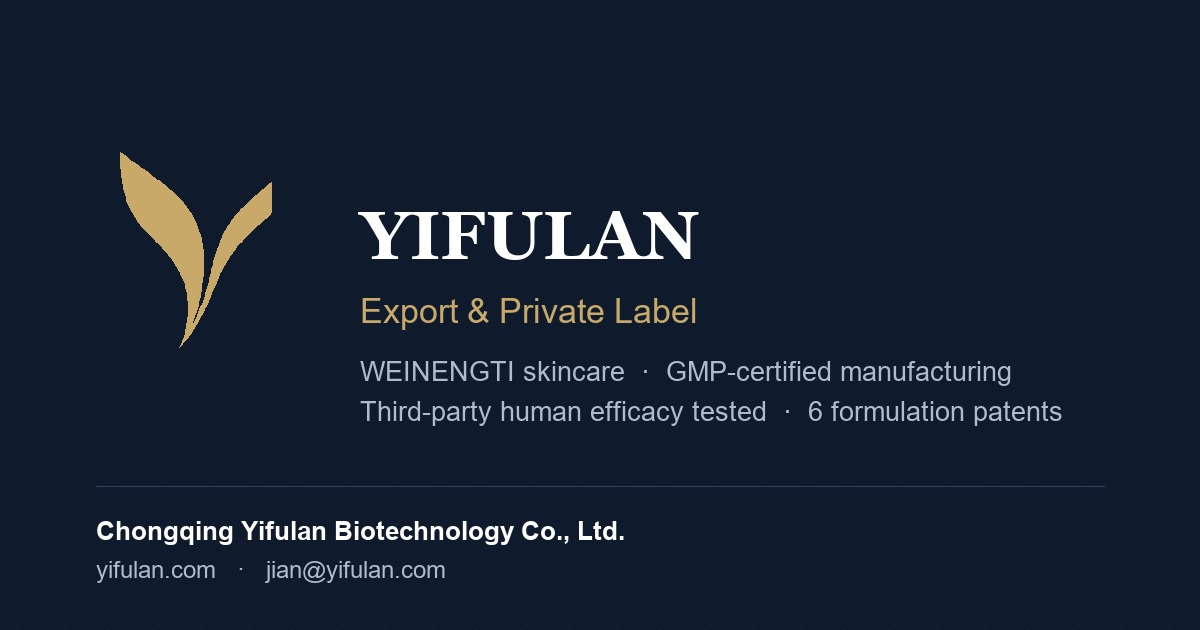
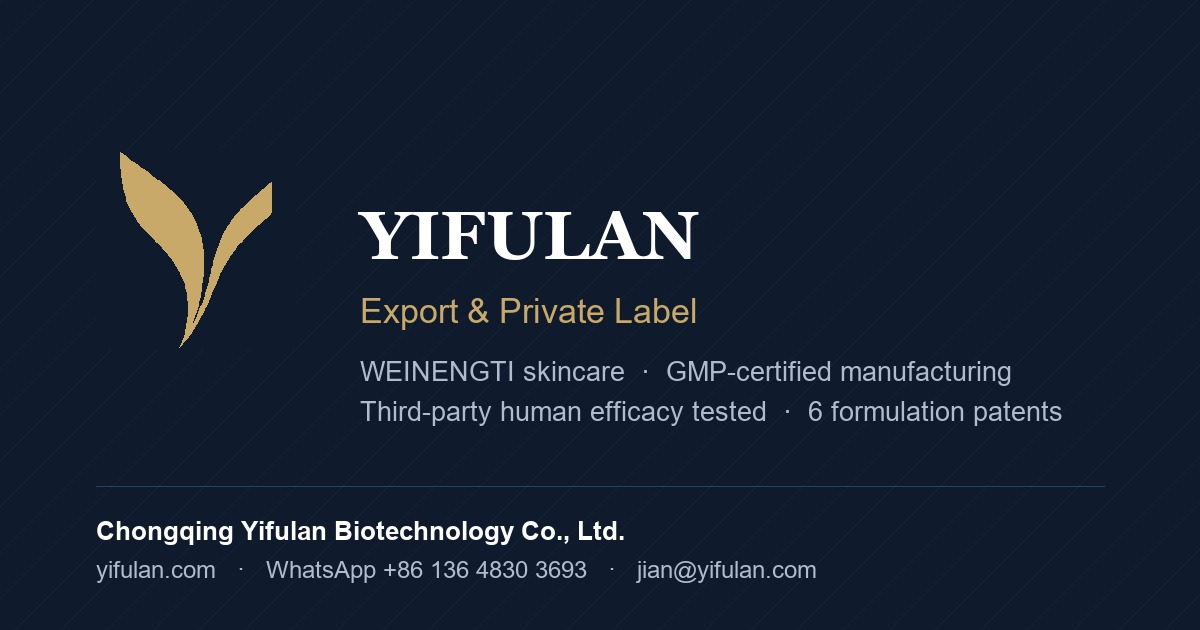
2026-10-09 contact restore: WhatsApp +86 136 4830 3693 is back on all 21 pages. The business number was recovered; the owner only ever used plain WhatsApp on 136, never WhatsApp Business. WhatsApp is the primary CTA again and the email stays as the secondary button. og-image bottom line restored to 

Changed region(s): [[0.2158, 0.8746, 0.4933, 0.9349], [0.5242, 0.8746, 0.6783, 0.9349]]

diff --git a/private-label-skincare-manufacturer.html b/private-label-skincare-manufacturer.html
@@ -9,7 +9,7 @@
 <meta name="theme-color" content="#0F1B2D">
 <meta property="og:type" content="website">
 <meta property="og:url" content="https://yifulan.com/private-label-skincare-manufacturer.html">
-<meta property="og:title" content="Private Label Skincare Manufacturing — From 50 Units">
+<meta property="og:title" content="Private Label Skincare Manufacturer in China — From 50 Units | Yifulan">
 <meta property="og:description" content="Private label and OEM skincare from 50 units. 35-45 day lead time, full export documents, and third-party human efficacy reports on finished formulas.">
 <meta property="og:image" content="https://yifulan.com/og-image.jpg">
 <meta name="twitter:card" content="summary_large_image">
@@ -108,7 +108,7 @@ footer a:hover{color:var(--gold)}
       <a class="hide" href="about.html">About us</a>
       <a class="hide" href="what-is-weinengti.html">Technology</a>
       <a class="hide" href="products.html">All products</a>
-      <a href="mailto:jian@yifulan.com" class="btn btn-gold">Email us</a>
+      <a href="https://wa.me/8613648303693" class="btn btn-gold">WhatsApp us</a>
     </div>
   </div>
 </header>
@@ -123,7 +123,8 @@ footer a:hover{color:var(--gold)}
          Full export documents as standard, and a third-party human efficacy report on the
          finished formula rather than the raw material.</p>
       <div style="display:flex;gap:14px;flex-wrap:wrap;margin-top:30px">
-        <a class="btn btn-gold" href="mailto:jian@yifulan.com?subject=Enquiry - private label manufacturing">Email us</a>
+        <a class="btn btn-gold" href="https://wa.me/8613648303693?text=Enquiry: private label manufacturing">Ask for a quotation</a>
+        <a class="btn btn-line" href="mailto:jian@yifulan.com?subject=Enquiry - private label manufacturing">Email us</a>
       </div>
     </div>
   </section>
@@ -233,9 +234,10 @@ footer a:hover{color:var(--gold)}
       <h2>Tell us three things and we will send a quotation.</h2>
       <p class="lead">Which product, the quantity, and your destination port or city. That is everything we need to price your order properly.</p>
       <div style="display:flex;gap:14px;flex-wrap:wrap;margin-top:30px">
-        <a class="btn btn-gold" href="mailto:jian@yifulan.com?subject=Enquiry - private label manufacturing">Email us</a>
+        <a class="btn btn-gold" href="https://wa.me/8613648303693?text=Enquiry: private label manufacturing">Message us on WhatsApp</a>
+        <a class="btn btn-line" href="mailto:jian@yifulan.com?subject=Enquiry - private label manufacturing">Email us</a>
       </div>
-      <p class="note">jian@yifulan.com</p>
+      <p class="note">WhatsApp +86 136 4830 3693 &#183; jian@yifulan.com</p>
     </div>
   </section>
   <section>

diff --git a/index.html b/index.html
@@ -148,7 +148,7 @@ footer a:hover{color:var(--gold)}
       <li><a href="#process">How we work</a></li>
       <li><a href="#contact">Contact</a></li>
     </ul>
-    <a class="btn btn-gold" href="mailto:jian@yifulan.com">Email us</a>
+    <a class="btn btn-gold" href="https://wa.me/8613648303693">WhatsApp us</a>
   </div>
 </header>
 
@@ -164,8 +164,9 @@ footer a:hover{color:var(--gold)}
          What reaches your market is backed by third-party human efficacy evaluation reports
          &#8212; not adjectives.</p>
       <div class="cta">
-        <!-- ★ 2026-10-08：原电话联系按钮已撤下，改为邮箱主 CTA -->
-        <a class="btn btn-gold" href="mailto:jian@yifulan.com?subject=Export%20enquiry%20-%20WEINENGTI">Email us</a>
+        <a class="btn btn-gold" href="https://wa.me/8613648303693">Message us on WhatsApp</a>
+        <!-- 域名邮箱已于 2026-10-03 启用（MX/SPF/DKIM 三项 Zoho 验证通过） -->
+        <a class="btn btn-line" href="mailto:jian@yifulan.com?subject=Export%20enquiry%20-%20WEINENGTI">Email us</a>
       </div>
       <div class="facts">
         <div><b>OEM &amp; ODM</b><br>Private label welcome</div>
@@ -455,7 +456,9 @@ footer a:hover{color:var(--gold)}
       <div class="contact">
         <div>
           <ul class="rows">
-            <!-- ★ 2026-10-08：原电话联系方式行已撤下（业务号被封） -->
+            <li><span style="color:var(--gold)">WhatsApp</span>
+                <a href="https://wa.me/8613648303693"><b>+86 136 4830 3693</b></a></li>
+            <!-- 已于 2026-10-03 换为域名邮箱 -->
             <li><span style="color:var(--gold)">Email</span>
                 <a href="mailto:jian@yifulan.com"><b>jian@yifulan.com</b></a></li>
             <li><span style="color:var(--gold)">Website</span>
@@ -472,10 +475,12 @@ footer a:hover{color:var(--gold)}
         </div>
         <div class="card" style="align-self:start">
           <h3>Fastest route</h3>
-          <p style="margin-bottom:22px">Email reaches us directly &#8212; we usually
-             reply within one business day. Tell us the product, the quantity
-             and your destination, and we will send a quote.</p>
+          <p style="margin-bottom:22px">WhatsApp reaches us directly on the
+             phone &#8212; usually answered within a few hours during
+             business hours.</p>
           <a class="btn btn-gold" style="width:100%;text-align:center"
+             href="https://wa.me/8613648303693">Open WhatsApp</a>
+          <a class="btn btn-line" style="width:100%;text-align:center;margin-top:12px"
              href="mailto:jian@yifulan.com?subject=Export%20enquiry%20-%20WEINENGTI">Send an email</a>
         </div>
       </div>

diff --git a/private-label-skincare-uae-saudi.html b/private-label-skincare-uae-saudi.html
@@ -9,7 +9,7 @@
 <meta name="theme-color" content="#0F1B2D">
 <meta property="og:type" content="website">
 <meta property="og:url" content="https://yifulan.com/private-label-skincare-uae-saudi.html">
-<meta property="og:title" content="Private Label Skincare for UAE &amp; Saudi Arabia">
+<meta property="og:title" content="Private Label Skincare for UAE &amp; Saudi Arabia | OEM in China | Yifulan">
 <meta property="og:description" content="Private label and OEM skincare for distributors and brand owners in the UAE and Saudi Arabia. MOQ from 50 units. Full export documents. English and Arabic support.">
 <meta property="og:image" content="https://yifulan.com/og-image.jpg">
 <meta name="twitter:card" content="summary_large_image">
@@ -108,7 +108,7 @@ footer a:hover{color:var(--gold)}
       <a class="hide" href="about.html">About us</a>
       <a class="hide" href="what-is-weinengti.html">Technology</a>
       <a class="hide" href="products.html">All products</a>
-      <a href="mailto:jian@yifulan.com" class="btn btn-gold">Email us</a>
+      <a href="https://wa.me/8613648303693" class="btn btn-gold">WhatsApp us</a>
     </div>
   </div>
 </header>
@@ -177,9 +177,10 @@ footer a:hover{color:var(--gold)}
       <h2>Tell us three things and we will send a quotation.</h2>
       <p class="lead">Which product, the quantity, and your destination port or city. That is everything we need to price your order properly.</p>
       <div style="display:flex;gap:14px;flex-wrap:wrap;margin-top:30px">
-        <a class="btn btn-gold" href="mailto:jian@yifulan.com?subject=Enquiry - UAE and Saudi Arabia">Email us</a>
+        <a class="btn btn-gold" href="https://wa.me/8613648303693?text=Enquiry: UAE and Saudi Arabia">Message us on WhatsApp</a>
+        <a class="btn btn-line" href="mailto:jian@yifulan.com?subject=Enquiry - UAE and Saudi Arabia">Email us</a>
       </div>
-      <p class="note">jian@yifulan.com</p>
+      <p class="note">WhatsApp +86 136 4830 3693 &#183; jian@yifulan.com</p>
     </div>
   </section>
   <section>

diff --git a/skincare-supply-africa.html b/skincare-supply-africa.html
@@ -9,7 +9,7 @@
 <meta name="theme-color" content="#0F1B2D">
 <meta property="og:type" content="website">
 <meta property="og:url" content="https://yifulan.com/skincare-supply-africa.html">
-<meta property="og:title" content="Skincare Supply for Africa — Low MOQ &amp; Fast Shipping">
+<meta property="og:title" content="Skincare Supply for Africa — Private Label OEM in China | Yifulan">
 <meta property="og:description" content="Private label and stock skincare for African distributors, wholesalers and beauty retailers. MOQ from 50 units. 35-45 day lead time. Full export documents.">
 <meta property="og:image" content="https://yifulan.com/og-image.jpg">
 <meta name="twitter:card" content="summary_large_image">
@@ -108,7 +108,7 @@ footer a:hover{color:var(--gold)}
       <a class="hide" href="about.html">About us</a>
       <a class="hide" href="what-is-weinengti.html">Technology</a>
       <a class="hide" href="products.html">All products</a>
-      <a href="mailto:jian@yifulan.com" class="btn btn-gold">Email us</a>
+      <a href="https://wa.me/8613648303693" class="btn btn-gold">WhatsApp us</a>
     </div>
   </div>
 </header>
@@ -181,9 +181,10 @@ footer a:hover{color:var(--gold)}
       <h2>Tell us three things and we will send a quotation.</h2>
       <p class="lead">Which product, the quantity, and your destination port or city. That is everything we need to price your order properly.</p>
       <div style="display:flex;gap:14px;flex-wrap:wrap;margin-top:30px">
-        <a class="btn btn-gold" href="mailto:jian@yifulan.com?subject=Enquiry - Africa supply">Email us</a>
+        <a class="btn btn-gold" href="https://wa.me/8613648303693?text=Enquiry: Africa supply">Message us on WhatsApp</a>
+        <a class="btn btn-line" href="mailto:jian@yifulan.com?subject=Enquiry - Africa supply">Email us</a>
       </div>
-      <p class="note">jian@yifulan.com</p>
+      <p class="note">WhatsApp +86 136 4830 3693 &#183; jian@yifulan.com</p>
     </div>
   </section>
   <section>

diff --git a/what-is-weinengti.html b/what-is-weinengti.html
@@ -108,7 +108,7 @@ footer a:hover{color:var(--gold)}
       <a class="hide" href="about.html">About us</a>
       <a class="hide" href="what-is-weinengti.html">Technology</a>
       <a class="hide" href="products.html">All products</a>
-      <a href="mailto:jian@yifulan.com" class="btn btn-gold">Email us</a>
+      <a href="https://wa.me/8613648303693" class="btn btn-gold">WhatsApp us</a>
     </div>
   </div>
 </header>
@@ -430,9 +430,10 @@ footer a:hover{color:var(--gold)}
       <p class="lead">Tell us which products you are looking at and your destination market, and we
          will send the formulation notes, the document set and a quotation for your order.</p>
       <div style="display:flex;gap:14px;flex-wrap:wrap;margin-top:30px">
-        <a class="btn btn-gold" href="mailto:jian@yifulan.com?subject=Technical pack request">Email us</a>
+        <a class="btn btn-gold" href="https://wa.me/8613648303693?text=Enquiry: technical pack">Message us on WhatsApp</a>
+        <a class="btn btn-line" href="mailto:jian@yifulan.com?subject=Technical pack request">Email us</a>
       </div>
-      <p class="note">jian@yifulan.com &#183;
+      <p class="note">WhatsApp +86 136 4830 3693 &#183; jian@yifulan.com &#183;
          <a href="products.html" style="color:var(--gold)">See the full range</a></p>
     </div>
   </section>

diff --git a/product-skin-base-fluid.html b/product-skin-base-fluid.html
@@ -108,7 +108,7 @@ footer a:hover{color:var(--gold)}
       <a class="hide" href="about.html">About us</a>
       <a class="hide" href="what-is-weinengti.html">Technology</a>
       <a class="hide" href="products.html">All products</a>
-      <a href="mailto:jian@yifulan.com" class="btn btn-gold">Email us</a>
+      <a href="https://wa.me/8613648303693" class="btn btn-gold">WhatsApp us</a>
     </div>
   </div>
 </header>
@@ -194,9 +194,10 @@ footer a:hover{color:var(--gold)}
          order &mdash; we do not publish a price list, because cost depends on quantity,
          packaging and destination.</p>
       <div style="display:flex;gap:14px;flex-wrap:wrap;margin-top:30px">
-        <a class="btn btn-gold" href="mailto:jian@yifulan.com?subject=Enquiry - 微能体肤本液 / WEINENGTI Nourishing Skin Fluid">Email us</a>
+        <a class="btn btn-gold" href="https://wa.me/8613648303693?text=Enquiry: 微能体肤本液 / WEINENGTI Nourishing Skin Fluid">Message us on WhatsApp</a>
+        <a class="btn btn-line" href="mailto:jian@yifulan.com?subject=Enquiry - 微能体肤本液 / WEINENGTI Nourishing Skin Fluid">Email us</a>
       </div>
-      <p class="note">jian@yifulan.com</p>
+      <p class="note">WhatsApp +86 136 4830 3693 &#183; jian@yifulan.com</p>
     </div>
   </section>
 </main>

diff --git a/product-ampoule-lotion.html b/product-ampoule-lotion.html
@@ -108,7 +108,7 @@ footer a:hover{color:var(--gold)}
       <a class="hide" href="about.html">About us</a>
       <a class="hide" href="what-is-weinengti.html">Technology</a>
       <a class="hide" href="products.html">All products</a>
-      <a href="mailto:jian@yifulan.com" class="btn btn-gold">Email us</a>
+      <a href="https://wa.me/8613648303693" class="btn btn-gold">WhatsApp us</a>
     </div>
   </div>
 </header>
@@ -194,9 +194,10 @@ footer a:hover{color:var(--gold)}
          order &mdash; we do not publish a price list, because cost depends on quantity,
          packaging and destination.</p>
       <div style="display:flex;gap:14px;flex-wrap:wrap;margin-top:30px">
-        <a class="btn btn-gold" href="mailto:jian@yifulan.com?subject=Enquiry - 微能体安肌液 / WEINENGTI Skin Soothing Lotion">Email us</a>
+        <a class="btn btn-gold" href="https://wa.me/8613648303693?text=Enquiry: 微能体安肌液 / WEINENGTI Skin Soothing Lotion">Message us on WhatsApp</a>
+        <a class="btn btn-line" href="mailto:jian@yifulan.com?subject=Enquiry - 微能体安肌液 / WEINENGTI Skin Soothing Lotion">Email us</a>
       </div>
-      <p class="note">jian@yifulan.com</p>
+      <p class="note">WhatsApp +86 136 4830 3693 &#183; jian@yifulan.com</p>
     </div>
   </section>
 </main>

diff --git a/human-efficacy-reports-skincare.html b/human-efficacy-reports-skincare.html
@@ -108,7 +108,7 @@ footer a:hover{color:var(--gold)}
       <a class="hide" href="about.html">About us</a>
       <a class="hide" href="what-is-weinengti.html">Technology</a>
       <a class="hide" href="products.html">All products</a>
-      <a href="mailto:jian@yifulan.com" class="btn btn-gold">Email us</a>
+      <a href="https://wa.me/8613648303693" class="btn btn-gold">WhatsApp us</a>
     </div>
   </div>
 </header>
@@ -201,9 +201,10 @@ footer a:hover{color:var(--gold)}
       <h2>Tell us three things and we will send a quotation.</h2>
       <p class="lead">Which product, the quantity, and your destination port or city. That is everything we need to price your order properly.</p>
       <div style="display:flex;gap:14px;flex-wrap:wrap;margin-top:30px">
-        <a class="btn btn-gold" href="mailto:jian@yifulan.com?subject=Enquiry - human efficacy report">Email us</a>
+        <a class="btn btn-gold" href="https://wa.me/8613648303693?text=Enquiry: human efficacy report">Message us on WhatsApp</a>
+        <a class="btn btn-line" href="mailto:jian@yifulan.com?subject=Enquiry - human efficacy report">Email us</a>
       </div>
-      <p class="note">jian@yifulan.com</p>
+      <p class="note">WhatsApp +86 136 4830 3693 &#183; jian@yifulan.com</p>
     </div>
   </section>
   <section>

diff --git a/product-skin-essence.html b/product-skin-essence.html
@@ -108,7 +108,7 @@ footer a:hover{color:var(--gold)}
       <a class="hide" href="about.html">About us</a>
       <a class="hide" href="what-is-weinengti.html">Technology</a>
       <a class="hide" href="products.html">All products</a>
-      <a href="mailto:jian@yifulan.com" class="btn btn-gold">Email us</a>
+      <a href="https://wa.me/8613648303693" class="btn btn-gold">WhatsApp us</a>
     </div>
   </div>
 </header>
@@ -205,9 +205,10 @@ footer a:hover{color:var(--gold)}
          order &mdash; we do not publish a price list, because cost depends on quantity,
          packaging and destination.</p>
       <div style="display:flex;gap:14px;flex-wrap:wrap;margin-top:30px">
-        <a class="btn btn-gold" href="mailto:jian@yifulan.com?subject=Enquiry - 微能体肌底赋活液 / Base Revitalizing Fluid">Email us</a>
+        <a class="btn btn-gold" href="https://wa.me/8613648303693?text=Enquiry: 微能体肌底赋活液 / Base Revitalizing Fluid">Message us on WhatsApp</a>
+        <a class="btn btn-line" href="mailto:jian@yifulan.com?subject=Enquiry - 微能体肌底赋活液 / Base Revitalizing Fluid">Email us</a>
       </div>
-      <p class="note">jian@yifulan.com</p>
+      <p class="note">WhatsApp +86 136 4830 3693 &#183; jian@yifulan.com</p>
     </div>
   </section>
 </main>

diff --git a/product-firming-ampoule-lotion.html b/product-firming-ampoule-lotion.html
@@ -108,7 +108,7 @@ footer a:hover{color:var(--gold)}
       <a class="hide" href="about.html">About us</a>
       <a class="hide" href="what-is-weinengti.html">Technology</a>
       <a class="hide" href="products.html">All products</a>
-      <a href="mailto:jian@yifulan.com" class="btn btn-gold">Email us</a>
+      <a href="https://wa.me/8613648303693" class="btn btn-gold">WhatsApp us</a>
     </div>
   </div>
 </header>
@@ -206,9 +206,10 @@ footer a:hover{color:var(--gold)}
          order &mdash; we do not publish a price list, because cost depends on quantity,
          packaging and destination.</p>
       <div style="display:flex;gap:14px;flex-wrap:wrap;margin-top:30px">
-        <a class="btn btn-gold" href="mailto:jian@yifulan.com?subject=Enquiry - 微能体紧致抗皱液 / Firming Ampoule Lotion">Email us</a>
+        <a class="btn btn-gold" href="https://wa.me/8613648303693?text=Enquiry: 微能体紧致抗皱液 / Firming Ampoule Lotion">Message us on WhatsApp</a>
+        <a class="btn btn-line" href="mailto:jian@yifulan.com?subject=Enquiry - 微能体紧致抗皱液 / Firming Ampoule Lotion">Email us</a>
       </div>
-      <p class="note">jian@yifulan.com</p>
+      <p class="note">WhatsApp +86 136 4830 3693 &#183; jian@yifulan.com</p>
     </div>
   </section>
 </main>

diff --git a/product-revitalizing-spray.html b/product-revitalizing-spray.html
@@ -108,7 +108,7 @@ footer a:hover{color:var(--gold)}
       <a class="hide" href="about.html">About us</a>
       <a class="hide" href="what-is-weinengti.html">Technology</a>
       <a class="hide" href="products.html">All products</a>
-      <a href="mailto:jian@yifulan.com" class="btn btn-gold">Email us</a>
+      <a href="https://wa.me/8613648303693" class="btn btn-gold">WhatsApp us</a>
     </div>
   </div>
 </header>
@@ -194,9 +194,10 @@ footer a:hover{color:var(--gold)}
          order &mdash; we do not publish a price list, because cost depends on quantity,
          packaging and destination.</p>
       <div style="display:flex;gap:14px;flex-wrap:wrap;margin-top:30px">
-        <a class="btn btn-gold" href="mailto:jian@yifulan.com?subject=Enquiry - 微能体赋活喷雾 / Revitalizing Spray">Email us</a>
+        <a class="btn btn-gold" href="https://wa.me/8613648303693?text=Enquiry: 微能体赋活喷雾 / Revitalizing Spray">Message us on WhatsApp</a>
+        <a class="btn btn-line" href="mailto:jian@yifulan.com?subject=Enquiry - 微能体赋活喷雾 / Revitalizing Spray">Email us</a>
       </div>
-      <p class="note">jian@yifulan.com</p>
+      <p class="note">WhatsApp +86 136 4830 3693 &#183; jian@yifulan.com</p>
     </div>
   </section>
 </main>

diff --git a/product-cell-revitalizing-essence.html b/product-cell-revitalizing-essence.html
@@ -108,7 +108,7 @@ footer a:hover{color:var(--gold)}
       <a class="hide" href="about.html">About us</a>
       <a class="hide" href="what-is-weinengti.html">Technology</a>
       <a class="hide" href="products.html">All products</a>
-      <a href="mailto:jian@yifulan.com" class="btn btn-gold">Email us</a>
+      <a href="https://wa.me/8613648303693" class="btn btn-gold">WhatsApp us</a>
     </div>
   </div>
 </header>
@@ -194,9 +194,10 @@ footer a:hover{color:var(--gold)}
          order &mdash; we do not publish a price list, because cost depends on quantity,
          packaging and destination.</p>
       <div style="display:flex;gap:14px;flex-wrap:wrap;margin-top:30px">
-        <a class="btn btn-gold" href="mailto:jian@yifulan.com?subject=Enquiry - 微能体焕能液 / Revitalizing Essence">Email us</a>
+        <a class="btn btn-gold" href="https://wa.me/8613648303693?text=Enquiry: 微能体焕能液 / Revitalizing Essence">Message us on WhatsApp</a>
+        <a class="btn btn-line" href="mailto:jian@yifulan.com?subject=Enquiry - 微能体焕能液 / Revitalizing Essence">Email us</a>
       </div>
-      <p class="note">jian@yifulan.com</p>
+      <p class="note">WhatsApp +86 136 4830 3693 &#183; jian@yifulan.com</p>
     </div>
   </section>
 </main>
